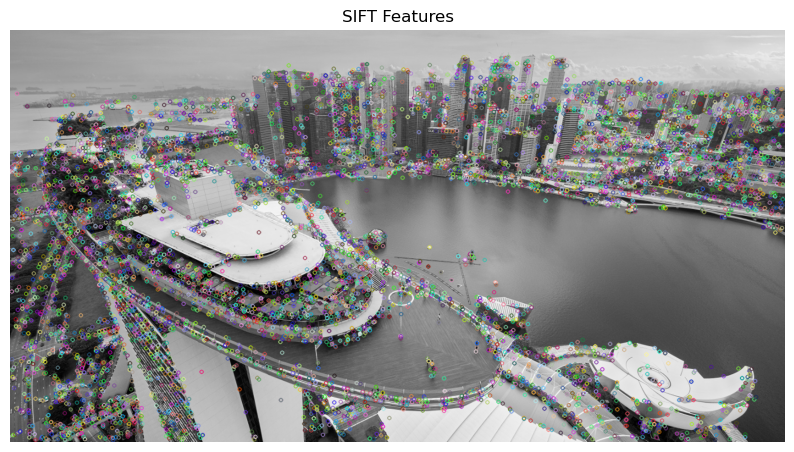
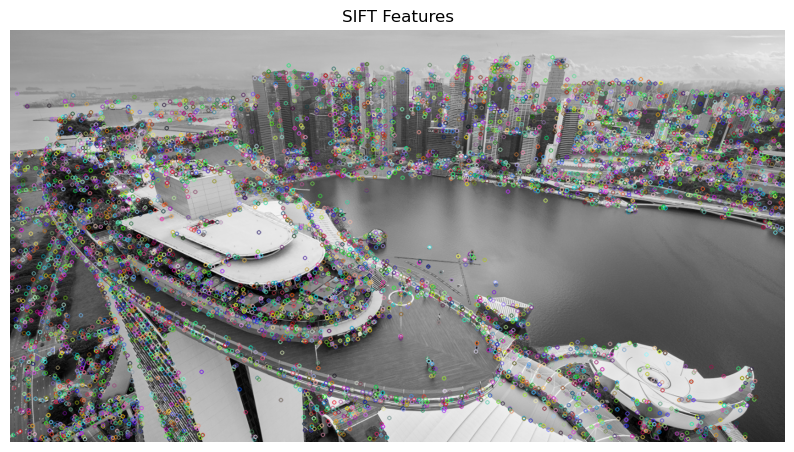
update index.html

diff --git a/docs/index.html b/docs/index.html
@@ -85,7 +85,8 @@
   .subtab-panel.active { display: block; }
 
   section.card { background: var(--bg-alt); border: 1px solid var(--border); border-radius: var(--radius); padding: 20px 24px; margin-bottom: 20px; }
-  section.card h3 { margin-top: 0; }
+  section.card h3:first-of-type { margin-top: 0; }
+  section.card h3:not(:first-of-type) { margin-top: 28px; }
   section.card img, section.card .img-row img { max-width: 100%; border-radius: 6px; border: 1px solid var(--border); }
   .img-row { display: flex; flex-wrap: wrap; gap: 12px; margin: 12px 0; }
   .img-row figure { margin: 0; flex: 1 1 260px; }
@@ -173,12 +174,32 @@
       <div class="subtab-panel active" data-subpanel="intro">
         <section class="card">
           <h3>What is Computer Vision?</h3>
-          <p>Computer vision is a field of AI that enables computers to interpret and understand the visual world, combining image processing (acquiring, analyzing, enhancing images) with machine learning (learning from and deciding based on visual data). Its scope includes image classification, object detection, object tracking, image segmentation, image restoration, scene reconstruction, event detection, image captioning, and pattern recognition.</p>
-          <p><strong>Brief history:</strong> early automated object-recognition systems date to the 1950s, with major advances in the 1970s–80s as algorithms and compute improved. Machine learning and feature extraction matured through the 1990s–2000s, and the 2010s introduction of deep learning &mdash; especially CNNs &mdash; revolutionized classification and detection.</p>
+          <p>Computer vision is a field of AI that enables computers to interpret and understand visual information &mdash; images or video &mdash; the way humans do. In practical terms, it means teaching computers to:</p>
+          <ul>
+            <li><strong>See:</strong> capture images or video using cameras or sensors.</li>
+            <li><strong>Process:</strong> analyze the content (e.g. detecting edges, patterns, shapes).</li>
+            <li><strong>Understand:</strong> recognize objects, classify scenes, detect movement, track people or things.</li>
+            <li><strong>Act:</strong> make decisions based on the visual input (e.g. a self-driving car stopping for a pedestrian).</li>
+          </ul>
+          <p>Its scope includes image classification, object detection, object tracking, image segmentation, image restoration, scene reconstruction, event detection, image captioning, and pattern recognition.</p>
           <div class="img-row">
             <figure><img src="img/image_segmentation.jpeg" alt="Image segmentation example"><figcaption>Image segmentation, one of CV's core tasks</figcaption></figure>
           </div>
+          <h4>Brief History</h4>
+          <ul>
+            <li><strong>1966:</strong> The Summer Vision Project &mdash; one of the earliest attempts at automated image understanding.</li>
+            <li><strong>1960s:</strong> Early techniques for pattern recognition and image understanding explored.</li>
+            <li><strong>1970s:</strong> Advancement in edge detection and feature extraction.</li>
+            <li><strong>1980s:</strong> More quantitative, mathematical approaches to computer vision explored.</li>
+            <li><strong>Late 1990s:</strong> More sophisticated algorithms &mdash; image-based rendering and image morphing.</li>
+            <li><strong>1990s:</strong> Object, optical-character, and facial recognition explored.</li>
+            <li><strong>2000s:</strong> Machine learning applied to real-world CV problems.</li>
+            <li><strong>2010s:</strong> Deep learning &mdash; especially CNNs &mdash; revolutionizes classification and detection.</li>
+          </ul>
           <p><strong>Applications:</strong> Healthcare (diagnosing disease from X-rays/MRIs/CT scans), Automotive (autonomous vehicles, ADAS), Retail (consumer behavior, inventory, virtual fitting rooms), Manufacturing (quality control, defect detection), Agriculture (crop monitoring, automated harvesting), Security (surveillance, facial recognition), Entertainment (AR/VR), Smartphones (face unlock, camera AR).</p>
+          <h4>Two Applications in Detail</h4>
+          <p><strong>Image-based translation</strong> (e.g. a translation-camera app) chains several CV/NLP steps: text detection (locating words in the image), text recognition (OCR turns characters into digital text), language translation (NLP translates the text), and rendering (translated text is overlaid back onto the image, matching font and background).</p>
+          <p><strong>Object detection</strong> combines classification (what is it?) with localization (where is it?), drawing bounding boxes around each detected object. Models like <strong>YOLO</strong> (You Only Look Once) do this in real time, outputting an object class (e.g. "cat"), a confidence score (e.g. 94%), and box coordinates. Used in autonomous vehicles (pedestrians, other cars, traffic signs), retail (shelf tracking), surveillance (spotting intruders), and agriculture (counting fruit, detecting crop disease).</p>
         </section>
       </div>
 
@@ -196,30 +217,61 @@
       <div class="subtab-panel" data-subpanel="color">
         <section class="card">
           <h3>Color Spaces and Conversions</h3>
-          <p>Images can be converted between color spaces with either library &mdash; e.g. RGB to grayscale, or RGB to HSV (hue/saturation/value), which is often more convenient than RGB for tasks like color-based thresholding.</p>
+          <p>A color space is a specific way of organizing and representing colors. Images can be converted between color spaces with either library &mdash; e.g. RGB to grayscale, or RGB to HSV (hue/saturation/value). Different color spaces make different tasks easier &mdash; for example, detecting skin tones, isolating bright objects, or enhancing contrast.</p>
           <div class="img-row">
             <figure><img src="img/gray_pil.png" alt="Grayscale conversion using PIL"><figcaption>Grayscale via PIL (<code>.convert('LA')</code>)</figcaption></figure>
             <figure><img src="img/gray_opencv.png" alt="Grayscale conversion using OpenCV"><figcaption>Grayscale via OpenCV (<code>cv2.COLOR_BGR2GRAY</code>)</figcaption></figure>
             <figure><img src="img/hsv.png" alt="HSV color space conversion"><figcaption>HSV conversion via OpenCV</figcaption></figure>
           </div>
+          <table class="plan-table">
+            <thead><tr><th>Task</th><th>Preferred Color Space</th><th>Why It's Preferred</th></tr></thead>
+            <tbody>
+              <tr><td>Skin detection</td><td>HSV / YCrCb</td><td>Separates color from brightness, making skin tones easier to isolate</td></tr>
+              <tr><td>Object color tracking</td><td>HSV</td><td>Hue is stable under lighting changes &mdash; great for tracking consistent colors</td></tr>
+              <tr><td>Edge/shape detection</td><td>Grayscale</td><td>Simplifies the image to intensity only, making edge detection faster and more effective</td></tr>
+              <tr><td>Color correction</td><td>LAB</td><td>Mimics human vision and isolates lightness, enabling precise color adjustments</td></tr>
+              <tr><td>Compression (video)</td><td>YCrCb</td><td>Efficiently separates luminance from chrominance &mdash; better compression with less loss</td></tr>
+            </tbody>
+          </table>
         </section>
       </div>
 
       <div class="subtab-panel" data-subpanel="classical">
         <section class="card">
           <h3>Image Filtering &amp; Convolution</h3>
-          <p>Image filtering enhances or suppresses features in an image. Convolution applies a small kernel (filter) over the image to produce a filtered output &mdash; the same core operation CNNs later learn to apply automatically.</p>
+          <p>Image filtering enhances or suppresses features in an image. Convolution applies a small kernel (filter, also called a mask) over the image to produce a filtered output &mdash; the same core operation CNNs later learn to apply automatically.</p>
+          <table class="plan-table">
+            <thead><tr><th>Filter Type</th><th>Purpose</th><th>Example 3&times;3 Kernel</th></tr></thead>
+            <tbody>
+              <tr><td>Blur / Smoothing</td><td>Reduce noise, soften image</td><td><code>[[1,1,1],[1,1,1],[1,1,1]] / 9</code></td></tr>
+              <tr><td>Sharpen</td><td>Enhance edges, highlight details</td><td><code>[[0,-1,0],[-1,5,-1],[0,-1,0]]</code></td></tr>
+              <tr><td>Edge Detection</td><td>Find object boundaries</td><td>Sobel, Prewitt, or Laplacian filters</td></tr>
+              <tr><td>Emboss</td><td>Create a 3D-like shaded effect</td><td><code>[[-2,-1,0],[-1,1,1],[0,1,2]]</code></td></tr>
+              <tr><td>Gaussian Blur</td><td>Smooth while preserving edge structure</td><td>Weighted Gaussian kernel</td></tr>
+            </tbody>
+          </table>
           <h4>Gaussian Blur</h4>
           <p>A smoothing technique that reduces noise and detail by convolving the image with a Gaussian-weighted kernel, blurring while preserving edges better than a simple mean filter.</p>
           <div class="img-row">
             <figure><img src="img/gaussian_blur.png" alt="Original vs Gaussian blurred image"><figcaption>Original vs. Gaussian-blurred</figcaption></figure>
           </div>
-          <h4>Edge Detection: Sobel &amp; Canny</h4>
+          <h4>Edge Detection</h4>
+          <p>Edge detection identifies the boundaries of objects within an image &mdash; the points where pixel intensity changes significantly &mdash; helping distinguish different regions of an image.</p>
+          <table class="plan-table">
+            <thead><tr><th>Method</th><th>Purpose</th><th>Use Case</th></tr></thead>
+            <tbody>
+              <tr><td>Sobel Operator</td><td>Detects edges using gradients</td><td>General-purpose edge detection</td></tr>
+              <tr><td>Canny Edge Detection</td><td>High-precision, multi-stage edge detection</td><td>Complex images, medical imaging, object tracking</td></tr>
+              <tr><td>Prewitt Operator</td><td>Detects edges with simpler kernels</td><td>Faster edge detection in simple images</td></tr>
+              <tr><td>Laplacian of Gaussian</td><td>Detects sharp intensity changes</td><td>Edge detection in noisy or complex images</td></tr>
+            </tbody>
+          </table>
           <p><strong>Sobel</strong> convolves the image with a pair of 3x3 kernels (x- and y-direction gradients) and combines them into an edge-strength map. <strong>Canny</strong> is a multi-stage detector: Gaussian noise reduction &rarr; gradient calculation &rarr; non-maximum suppression &rarr; double thresholding &rarr; edge tracking by hysteresis. Canny is generally better at localizing edges and more robust to noise.</p>
           <div class="img-row">
             <figure><img src="img/sobel.png" alt="Sobel X and Y edge detection"><figcaption>Sobel X / Y gradients</figcaption></figure>
             <figure><img src="img/canny.png" alt="Canny edge detection"><figcaption>Canny edges</figcaption></figure>
           </div>
+          <p><strong>Why edge detection matters:</strong> it underpins object detection (identifying boundaries of objects), image segmentation (splitting an image into meaningful parts), feature extraction (extracting shapes and lines), and simplification (reducing image complexity by focusing on key structure).</p>
           <h4>Image Segmentation: Thresholding</h4>
           <p>Thresholding converts a grayscale image into a binary image: pixels above a threshold become one value (e.g. white), pixels below become another (e.g. black) &mdash; a simple way to separate an object from its background.</p>
           <div class="img-row">
@@ -244,16 +296,31 @@
 
       <div class="subtab-panel active" data-subpanel="conv">
         <section class="card">
+          <h3>How Does AI Classify an Image?</h3>
+          <p>Classifying images is harder than it looks: the same object can appear <strong>distorted</strong>, <strong>occluded</strong> (partly hidden), photographed from a different <strong>viewpoint</strong>, under different <strong>illumination</strong>, at a different <strong>scale</strong>, or against noisy <strong>backgrounds</strong> &mdash; and a good model still has to recognize it as the same class every time.</p>
+          <h4>Why CNNs, Not a Plain Feedforward Network?</h4>
+          <p>A naive approach would flatten an image into a single vector of pixel values and feed it into a fully connected (feedforward) network. CNNs do better on three fronts:</p>
+          <ul>
+            <li><strong>Compute:</strong> flattening a large image produces an enormous input vector; a fully connected layer over it needs an equally enormous number of weights. Convolution instead reuses (shares) a small set of kernel weights across the whole image.</li>
+            <li><strong>Generalization:</strong> a feedforward net treats every pixel position as unrelated, so it must relearn a pattern separately for every location it might appear in. A convolutional kernel detects a pattern anywhere it occurs (translation invariance).</li>
+            <li><strong>Correlations:</strong> flattening destroys the 2D spatial relationships between neighboring pixels. Convolution operates on local neighborhoods, so it preserves and exploits spatial correlation.</li>
+          </ul>
           <h3>CNN Architecture Overview</h3>
           <p>A typical CNN is built from: an <strong>Input Layer</strong> (raw pixels), <strong>Convolutional Layers</strong> (the core feature-extracting building block), an <strong>Activation/ReLU Layer</strong> (adds non-linearity), <strong>Pooling Layers</strong> (reduce spatial size/parameters), <strong>Fully Connected Layers</strong> (combine features for classification), and an <strong>Output Layer</strong> (class probabilities).</p>
           <div class="img-row">
             <figure><img src="img/cnn.png" alt="CNN architecture diagram"><figcaption>A typical CNN architecture</figcaption></figure>
           </div>
           <h4>Convolutional Layers</h4>
-          <p>A convolution slides a small kernel (matrix of weights) across the image, computing a dot product at each position to produce a feature map highlighting patterns like edges or textures. <strong>Padding</strong> (commonly zero-padding) preserves spatial dimensions at the borders; <strong>stride</strong> controls how many pixels the kernel moves each step &mdash; larger strides shrink the output.</p>
+          <p>A convolution slides a small kernel (matrix of weights) across the image, computing a dot product at each position to produce a feature map highlighting patterns like edges or textures. <strong>Padding</strong> (commonly zero-padding) preserves spatial dimensions at the borders, keeps information at the image edges from being under-used, and gives control over the output size; <strong>stride</strong> controls how many pixels the kernel moves each step &mdash; larger strides shrink the output and reduce overlap between receptive fields.</p>
           <div class="img-row">
             <figure><img src="img/convolution.gif" alt="Convolution operation animation"><figcaption>The convolution operation (kernel sliding over the input)</figcaption></figure>
           </div>
+          <h4>Kernel Size Trade-offs</h4>
+          <p>Kernel size affects what a convolution can capture: a <strong>1&times;1</strong> kernel only performs a linear combination at a single pixel and can't capture any spatial pattern. A <strong>2&times;2</strong> kernel captures a small local region but is still too small for complex patterns and introduces redundant, inefficient parameters. Even-sized kernels also don't divide the surrounding pixels symmetrically around an output pixel, which can distort deeper layers &mdash; this is why odd-sized kernels (3&times;3, 5&times;5, ...) are preferred in practice.</p>
+          <h4>Computing Output Size</h4>
+          <p>The spatial size of a convolution's output follows:</p>
+          <p style="text-align:center"><code>n_out = floor((n_in + 2p &minus; k) / s) + 1</code></p>
+          <p>where <code>n_in</code>/<code>n_out</code> are the input/output size, <code>k</code> is the kernel size, <code>p</code> is padding, and <code>s</code> is stride. For example, a classic LeNet-5-style network on a 32&times;32&times;3 input: CONV1 (6 filters, k=5, s=1, p=0) &rarr; 28&times;28&times;6 &rarr; POOL1 (k=2, s=2) &rarr; 14&times;14&times;6 &rarr; CONV2 (16 filters, k=5, s=1, p=0) &rarr; 10&times;10&times;16 &rarr; POOL2 (k=2, s=2) &rarr; 5&times;5&times;16, which is then flattened to a 400-length vector (5&times;5&times;16) and fed into the fully connected layers.</p>
           <h4>Hierarchical Feature Learning</h4>
           <p>CNNs learn a hierarchy of features automatically: early layers learn <strong>low-level</strong> features (edges, basic textures), middle layers learn <strong>mid-level</strong> features (shapes, textural patterns), and deep layers learn <strong>high-level</strong> features (entire objects/scenes). ReLU is the standard activation used after convolutions for its efficiency and effectiveness.</p>
         </section>
@@ -275,15 +342,22 @@
           <h3>Fully Connected Layers &amp; Classification</h3>
           <p>After the convolution/pooling stack, a CNN typically transitions to fully connected (FC) layers, where every neuron connects to all activations in the previous layer &mdash; just like a standard neural network. The FC stack takes the high-level features learned earlier and uses them to classify the input.</p>
           <p>The final FC layer has one neuron per class, and a <strong>softmax</strong> activation converts the raw outputs into a probability distribution over the classes.</p>
+          <h4>Practical Applications of CNNs</h4>
+          <ul>
+            <li><strong>Image classification:</strong> assigning images to predefined categories &mdash; e.g. automatic photo organization in social media platforms.</li>
+            <li><strong>Object detection:</strong> identifying and locating multiple objects within an image &mdash; e.g. shelf scanning in retail to spot out-of-stock items.</li>
+            <li><strong>Facial recognition:</strong> embedded into security systems for access control based on facial features.</li>
+          </ul>
         </section>
       </div>
 
       <div class="subtab-panel" data-subpanel="reg">
         <section class="card">
           <h3>Training Techniques: Augmentation, BatchNorm, Dropout</h3>
-          <p><strong>Data Augmentation</strong> increases training-set diversity via random transformations (rotation, scaling, translation, flipping, cropping) &mdash; helping the model generalize.</p>
-          <p><strong>Batch Normalization</strong> normalizes each layer's inputs to zero mean / unit variance (with learned scale &amp; shift), combating internal covariate shift and enabling higher learning rates and faster convergence.</p>
-          <p><strong>Dropout</strong> randomly zeroes a fraction of a layer's outputs during training, a regularization technique that reduces overfitting by preventing co-adaptation of neurons.</p>
+          <p><strong>Data Augmentation</strong> increases training-set diversity via random transformations applied to the original image &mdash; horizontal/vertical flips, &plusmn;45&deg; rotation, blur, brightening/darkening, added noise, grayscale conversion, and cropping &mdash; helping the model generalize to variations it will see at inference time.</p>
+          <p><strong>Batch Normalization</strong> normalizes each layer's inputs to zero mean / unit variance (with learned scale &amp; shift), applied per mini-batch rather than over the whole dataset. It addresses <strong>internal covariate shift</strong>: as earlier layers' weights update during training, the distribution of inputs to later layers keeps shifting, forcing those layers to constantly re-adapt and slowing/destabilizing training. Standardizing each mini-batch's activations counters this, which is why BatchNorm makes networks easier to converge, helps prevent vanishing gradients, and has a mild regularizing effect.</p>
+          <p><strong>Where to apply it:</strong> most commonly after a convolution and before the activation (<code>Conv2D &rarr; BatchNorm &rarr; ReLU</code>) &mdash; this is standard in architectures like ResNet and VGG. It's also used, less commonly, in fully connected/linear layers (<code>Linear &rarr; BatchNorm1d &rarr; ReLU</code>), especially when input features vary significantly in scale.</p>
+          <p><strong>Dropout</strong> randomly zeroes a fraction of a layer's outputs during training, a regularization technique that reduces overfitting by preventing co-adaptation of neurons and forcing the network to learn redundant representations. Common dropout rates are <strong>0.2&ndash;0.5</strong>; rates set too high can hinder learning.</p>
         </section>
       </div>
     </section>
@@ -326,6 +400,7 @@
         <button class="active" data-subtab="concept">Concept</button>
         <button data-subtab="resnet">ResNet</button>
         <button data-subtab="strategy">Feature Extraction vs. Fine-Tuning</button>
+        <button data-subtab="limits">When It's Not Ideal</button>
       </nav>
 
       <div class="subtab-panel active" data-subpanel="concept">
@@ -333,6 +408,9 @@
           <h3>Transfer Learning</h3>
           <p>Transfer learning reuses a model developed for one task as the starting point for a second task &mdash; instead of training from scratch. Models pre-trained on huge benchmark datasets like <a href="https://en.wikipedia.org/wiki/ImageNet" target="_blank" rel="noopener">ImageNet</a> (1M+ images, 1000 categories) offer three main benefits: <strong>time-saving</strong> (skip most of the training time), <strong>improved performance</strong> (especially with limited new-task data), and reusable <strong>feature extraction</strong> (learned features transfer even to different classes).</p>
           <p>Popular pre-trained CNN architectures include LeNet-5, AlexNet, VGGNet, GoogLeNet (Inception), and ResNet.</p>
+          <h4>Why It Works</h4>
+          <p>A CNN's early layers learn general features &mdash; vertical/horizontal edges, corners, simple textures &mdash; that are independent of the specific classes the model was trained on. Models don't literally "know" what a cat looks like; they learn how small components combine into higher-level features. Recognition of the specific entity happens later, at the dense (fully connected) layers that take the convolutional features as input and map them to a final class.</p>
+          <p>To apply transfer learning, you remove the pre-trained model's dense layers (trained to recognize its original classes) and attach new ones, then retrain just those new layers to specialize in your classes of interest.</p>
         </section>
       </div>
 
@@ -352,6 +430,18 @@
           <p>The notebook applies this to CIFAR-10 using a pre-trained ResNet, replacing the final layer for the 10 CIFAR-10 classes. Full training runs are computationally heavy on CPU and are recommended to run on GPU (e.g. Google Colab).</p>
         </section>
       </div>
+
+      <div class="subtab-panel" data-subpanel="limits">
+        <section class="card">
+          <h3>When Transfer Learning May Not Be Ideal</h3>
+          <p>Transfer learning is powerful, but it isn't always the right call:</p>
+          <ol>
+            <li><strong>Your task/dataset is very different from the pre-trained model's task.</strong> Transfer learning works best when the source and target domains are similar. A model trained on ImageNet's natural images may transfer poorly to, say, medical scans (X-rays, MRIs), whose feature statistics look nothing like everyday photos.</li>
+            <li><strong>Insufficient data for fine-tuning.</strong> Adapting a pre-trained model usually still requires some fine-tuning data. With only a few hundred images, fine-tuning can overfit &mdash; the pre-trained weights may not generalize well to such a small dataset, sometimes performing worse than training from scratch.</li>
+            <li><strong>The task requires deep domain-specific knowledge.</strong> Models pre-trained on general datasets may not capture the specialized features a niche domain needs &mdash; e.g. a general-purpose language model won't have been exposed to the vocabulary and structure of a specific legal-document corpus.</li>
+          </ol>
+        </section>
+      </div>
     </section>
 
     <section class="tab-panel" data-panel="resources">
@@ -363,6 +453,7 @@
           <li><a href="../assignment.md">Assignment</a> &mdash; build a Fashion MNIST image classifier</li>
           <li><a href="../reference.md">Reference</a> &mdash; external documentation links</li>
           <li><a href="../notebooks/computer_vision_lesson.ipynb">Lesson Notebook</a> &mdash; the full code-along notebook this summary is based on</li>
+          <li><a href="../3.8%20-%20Computer%20Vision%20DS5.pdf">Lesson Slides (PDF)</a> &mdash; the lecture deck this summary is based on</li>
         </ul>
       </section>
       <section class="card">